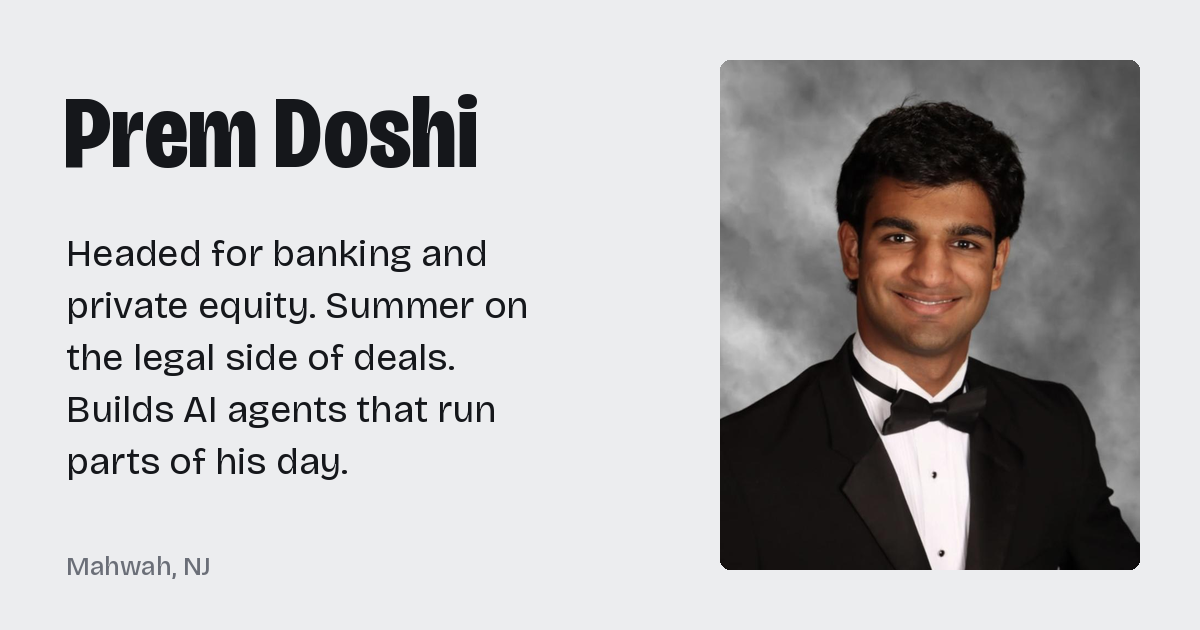
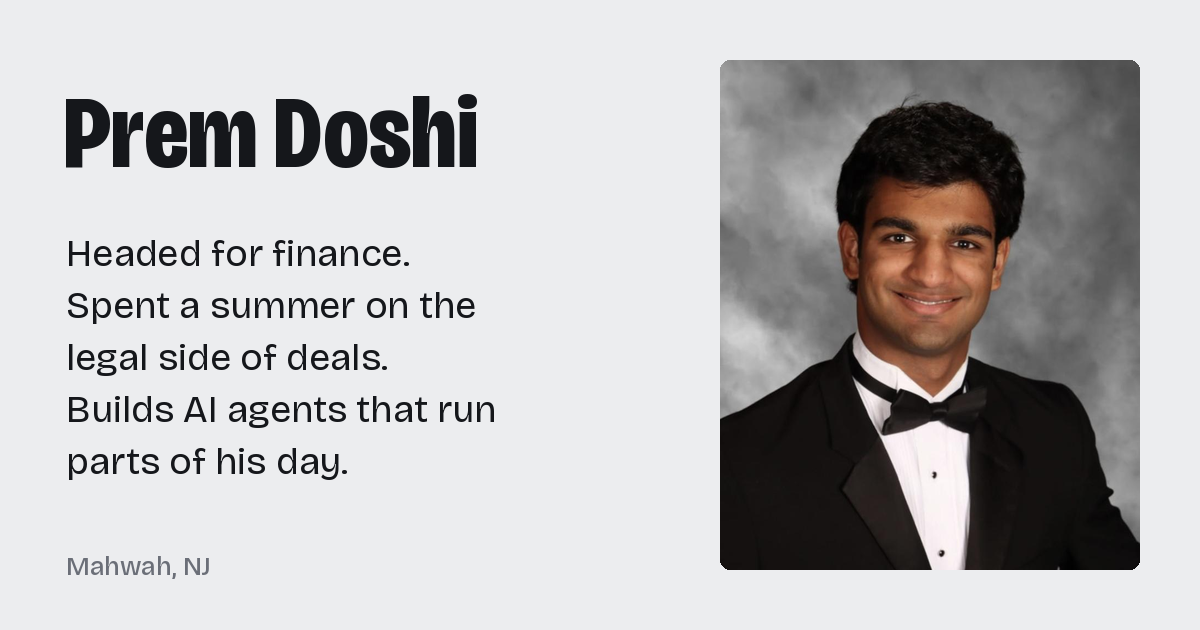
Link preview: say finance instead of banking and private equity
Claude-Session: https://claude.ai/code/session_01JiDAtM16Cjj3fGwvdvcCTn

Changed region(s): [[0.0308, 0.4524, 0.4317, 0.5127], [0.0617, 0.5429, 0.37, 0.6032], [0.2158, 0.3921, 0.4008, 0.4222]]

diff --git a/public/index.html b/public/index.html
@@ -4,20 +4,20 @@
 <meta charset="utf-8">
 <meta name="viewport" content="width=device-width, initial-scale=1, viewport-fit=cover">
 <title>Prem Doshi</title>
-<meta name="description" content="Prem Doshi, a senior in Mahwah, NJ headed for investment banking and private equity. M&A legal work, municipal finance, and AI agents.">
+<meta name="description" content="Prem Doshi, a senior in Mahwah, NJ headed for finance. M&A legal work, municipal finance, and AI agents.">
 <link rel="canonical" href="https://premdoshi.com/">
 <meta property="og:type" content="website">
 <meta property="og:url" content="https://premdoshi.com/">
 <meta property="og:title" content="Prem Doshi">
-<meta property="og:description" content="Prem Doshi, a senior in Mahwah, NJ headed for investment banking and private equity. M&A legal work, municipal finance, and AI agents.">
-<meta property="og:image" content="https://premdoshi.com/og.png">
+<meta property="og:description" content="Prem Doshi, a senior in Mahwah, NJ headed for finance. M&A legal work, municipal finance, and AI agents.">
+<meta property="og:image" content="https://premdoshi.com/og.png?v=2">
 <meta property="og:image:width" content="1200">
 <meta property="og:image:height" content="630">
 <meta name="twitter:card" content="summary_large_image">
 <meta name="twitter:site" content="@pdoshi16">
 <meta name="twitter:title" content="Prem Doshi">
-<meta name="twitter:description" content="Prem Doshi, a senior in Mahwah, NJ headed for investment banking and private equity. M&A legal work, municipal finance, and AI agents.">
-<meta name="twitter:image" content="https://premdoshi.com/og.png">
+<meta name="twitter:description" content="Prem Doshi, a senior in Mahwah, NJ headed for finance. M&A legal work, municipal finance, and AI agents.">
+<meta name="twitter:image" content="https://premdoshi.com/og.png?v=2">
 <link rel="icon" href="/favicon.ico" sizes="any">
 <link rel="icon" type="image/png" sizes="32x32" href="/favicon-32.png">
 <link rel="apple-touch-icon" href="/apple-touch-icon.png">
